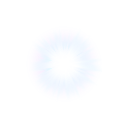
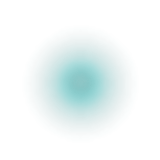
Plugins updated

Changed region(s): [[0.25, 0.2812, 0.75, 0.7812]]

diff --git a/Working/Zone.of.Control/README.md b/Working/Zone.of.Control/README.md
@@ -3,6 +3,8 @@
 
 **Author: [Timeout](https://github.com/LixiChronikouOriou)**
 
+**Thanks**: Xobes
+
 #### Introduction ####
 In vanilla, tributing human space is a bit tedious because there are no mechanisms for making peace with the factions. The only systems which don't cause issues are the Pirates' ones. To tribute the Free Worlds one has to save-edit afterwards, for tributing Republic and Syndicate one has to use the phases during the main campaign to profit from the reputation reset afterwards. Independent systems like Men cause problems with neutral mission NPCs, so one has to save-edit here, too. Also the monastery planets New Tibet and Harmony cannot be tributed in vanilla, causing ugly spots on the conquest map.
 
@@ -34,6 +36,7 @@ Has individual dialogue boxes for each of the following situations.
 
 | Date | Version | Comment |
 |------|---------|---------|
+| 2024-12-31 | 1.1.1 | Icon was redesigned by Xobes. |
 | 2025-09-07 | 1.1.0 | Tarazed will become independent as the *Commonwealth* after the main campaign, if it hasn't joined the FW. Buffed Commonwealth defense. Plus some maintenance stuff. |
 | 2025-08-13 | 1.0.1 | Added missing Deneb system. Added militia reputation to be restored after Republic tributed. Now set new reputation after conquest only to 1, if the player's faction reputation really has become smaller than 1. Resized icon. |
 | 2025-08-09 | 1.0.0 | Initial release. |

diff --git a/Working/Korunak.Defense.Drones/README.md b/Working/Korunak.Defense.Drones/README.md
@@ -7,7 +7,7 @@
 
 **Thanks**: Kitteh
 
-An overhaul and republication of the [Defense Drone Plugin](https://github.com/starmlerp/ESDefenseDronePlugin), with consideration of the corresponding ES PRs [#5071](https://github.com/endless-sky/endless-sky/pull/5071) and [#5417](https://github.com/endless-sky/endless-sky/pull/5417).
+An overhaul and re-publication of the [Defense Drone Plugin](https://github.com/starmlerp/ESDefenseDronePlugin), with consideration of the corresponding ES PRs [#5071](https://github.com/endless-sky/endless-sky/pull/5071) and [#5417](https://github.com/endless-sky/endless-sky/pull/5417).
 
 Being distributed over a plugin and two PRs from May to October 2020, Starmlerp's idea has never been  consolidated into a whole. Nevertheless there's even a serious modern plugin, [RW Ships](https://www.moddb.com/mods/rw-ships) which takes the original plugin into account. It was time to modernize the stats, bring everything together, and round off.
 
@@ -19,6 +19,7 @@ The basic *Defense Drone* is available from the beginning, the *Nock* in-war, th
 
 | Date | Version | Comment |
 |------|---------|---------|
+| 2025-12-31 | 1.1.1 | Cheapened the drones' hull price according to a smart formula. |
 | 2025-07-19 | 1.1.0 | Added support for Omnis. |
 | 2025-06-01 | 1.0.4 | Minor metadata fix. |
 | 2025-05-18 | 1.0.3 | Cheapened the drones reasonably. Adjusted icon. |
